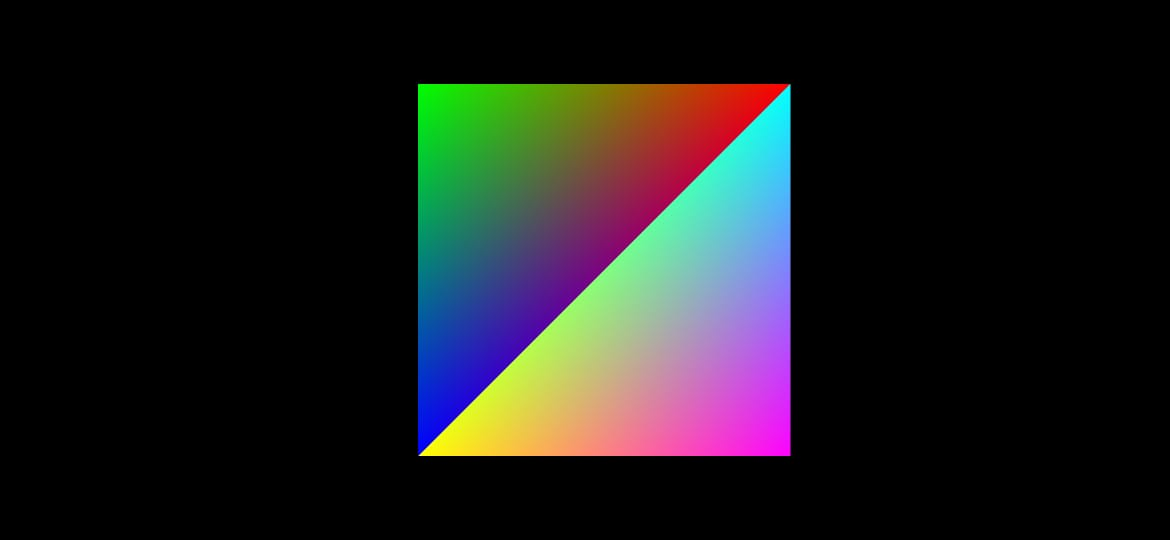
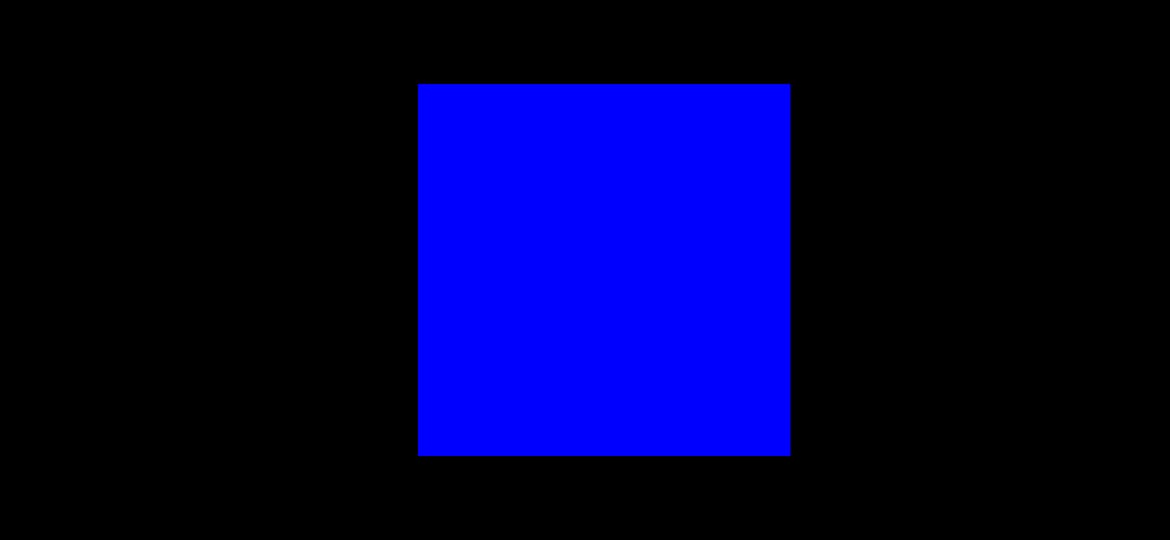
Perspective Colored Rectangle

Changed region(s): [[0.3385, 0.1481, 0.6769, 0.8593]]

diff --git a/01_OpenGL/02-PP/03-Android/OpenGL_ES/02-Perspective/02-Rectangle/02-Colored/app/src/main/java/com/PLP/perspective_cr/GLESView.java b/01_OpenGL/02-PP/03-Android/OpenGL_ES/02-Perspective/02-Rectangle/02-Colored/app/src/main/java/com/PLP/perspective_cr/GLESView.java
@@ -345,12 +345,12 @@ public class GLESView extends GLSurfaceView implements GLSurfaceView.Renderer, O
 
 		final float[] rectangleColor = new float[]
 		{
-			1.0f, 0.0f, 0.0f,
-			0.0f,1.0f,0.0f,
-			0.0f,0.0f,1.0f,
-			1.0f,1.0f,0.0f,
-			1.0f,0.0f,1.0f,
-			0.0f,1.0f,1.0f
+			0.0f, 0.0f, 1.0f,
+			0.0f, 0.0f, 1.0f,
+			0.0f, 0.0f, 1.0f,
+			0.0f, 0.0f, 1.0f,
+			0.0f, 0.0f, 1.0f,
+			0.0f, 0.0f, 1.0f
 		};
 
 		//vao
